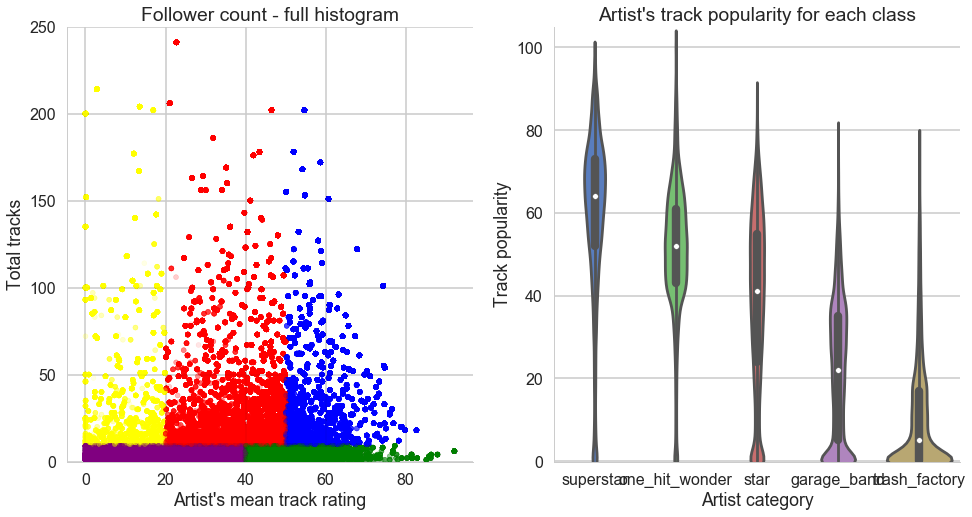
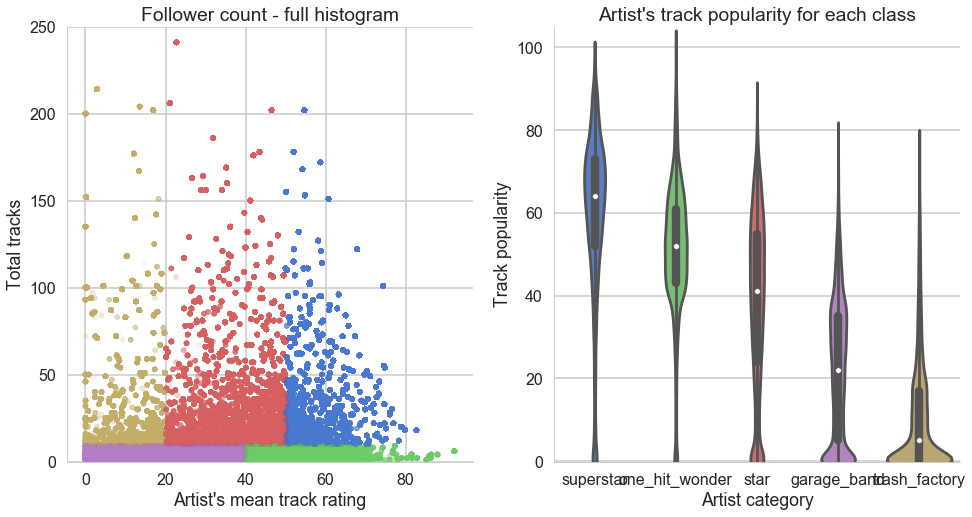
Updated chart colors and rounded table values

diff --git a/docs/index.html b/docs/index.html
@@ -558,18 +558,18 @@
                         <tbody>
                         <tr>
                             <td>Ridge Regression</td>
-                            <td>0.084026380104</td>
-                            <td>0.0411555898746</td>
+                            <td>0.0840</td>
+                            <td>0.0412</td>
                         </tr>
                         <tr>
                             <td>Elastic Net Regression</td>
-                            <td>0.0856918846622</td>
-                            <td>0.0408969940616</td>
+                            <td>0.0857</td>
+                            <td>0.0409</td>
                         </tr>
                         <tr>
                             <td>Random Forest Regression</td>
-                            <td>0.872547373809</td>
-                            <td>0.136527177719</td>
+                            <td>0.8725</td>
+                            <td>0.1365</td>
                         </tr>
                         </tbody>
                     </table>
@@ -600,51 +600,51 @@
                         <tbody>
                         <tr>
                             <td>Ridge Regression</td>
-                            <td>-0.030256576859918376, 0.11125313901459834</td>
-                            <td>0.0853779911556</td>
-                            <td>0.0413614492559</td>
+                            <td>-0.0303, 0.1113</td>
+                            <td>0.0854</td>
+                            <td>0.0414</td>
                         </tr>
                         <tr>
                             <td>Lasso Regression</td>
-                            <td>-0.030256576859918376, 0.11125313901459834</td>
-                            <td>0.0853779911556</td>
-                            <td>0.0413614492559</td>
+                            <td>-0.0303, 0.1113</td>
+                            <td>0.0854</td>
+                            <td>0.0414</td>
                         </tr>
                         <tr>
                             <td>Elastic Net Regression</td>
-                            <td>-0.0028011693799219937, 0.06249175213203975</td>
-                            <td>0.0884215423941</td>
-                            <td>0.0410473844718</td>
+                            <td>-0.0028, 0.0625</td>
+                            <td>0.0884</td>
+                            <td>0.0410</td>
                         </tr>
                         <tr>
                             <td>k-NN Regression</td>
-                            <td>0.013480236420100952, 0.014509798407915084</td>
-                            <td>0.0923044971552</td>
-                            <td>0.0447576215128</td>
+                            <td>0.0135, 0.0145</td>
+                            <td>0.0923</td>
+                            <td>0.0448</td>
                         </tr>
                         <tr>
                             <td>Random Forest Regression</td>
-                            <td>0.06498151001454726, 0.03988285917502669</td>
-                            <td>0.878798558284</td>
-                            <td>0.102835631709</td>
+                            <td>0.0650, 0.0399</td>
+                            <td>0.8788</td>
+                            <td>0.1028</td>
                         </tr>
                         <tr>
                             <td>AdaBoost Regression</td>
-                            <td>-0.06615510226947337, 0.14867997551870718</td>
-                            <td>0.471762846853</td>
-                            <td>0.0671178069851</td>
+                            <td>-0.0662, 0.1487</td>
+                            <td>0.4718</td>
+                            <td>0.0671</td>
                         </tr>
                         <tr>
                             <td>XGBoost Regression</td>
-                            <td>-0.06309052342991424, 0.25255449612691144</td>
-                            <td>0.471512394636</td>
-                            <td>0.110631159802</td>
+                            <td>-0.0631, 0.2526</td>
+                            <td>0.4715</td>
+                            <td>0.1106</td>
                         </tr>
                         <tr>
                             <td>SVM Regression</td>
-                            <td>0.050170049519681514, 0.014360689088760155</td>
-                            <td>0.161309635032</td>
-                            <td>0.0632341098191</td>
+                            <td>0.0502, 0.0144</td>
+                            <td>0.1613</td>
+                            <td>0.0632</td>
                         </tr>
                         </tbody>
                     </table>
@@ -697,51 +697,51 @@
                         <tbody>
                         <tr>
                             <td>Ridge Regression</td>
-                            <td>-0.0012099350604610388, 0.06014401823558278</td>
-                            <td>0.0506409957292</td>
-                            <td>0.034960605146</td>
+                            <td>-0.0012, 0.0601</td>
+                            <td>0.0506</td>
+                            <td>0.0350</td>
                         </tr>
                         <tr>
                             <td>Lasso Regression</td>
-                            <td>-0.031179089608199113, 0.11043536489467987</td>
-                            <td>0.0835771438137</td>
-                            <td>0.040393327611</td>
+                            <td>-0.0312, 0.1104</td>
+                            <td>0.0836</td>
+                            <td>0.0404</td>
                         </tr>
                         <tr>
                             <td>Elastic Net Regression</td>
-                            <td>-0.0028709466278603233, 0.06259040628484479</td>
-                            <td>0.0742195304118</td>
-                            <td>0.0420117696879</td>
+                            <td>-0.0029, 0.0626</td>
+                            <td>0.0742</td>
+                            <td>0.0420</td>
                         </tr>
                         <tr>
                             <td>k-NN Regression</td>
-                            <td>0.02365696902444836, 0.005290415228039509</td>
-                            <td>0.0938927608193</td>
-                            <td>0.0471011530949</td>
+                            <td>0.0237, 0.0053</td>
+                            <td>0.0939</td>
+                            <td>0.0471</td>
                         </tr>
                         <tr>
                             <td>Random Forest Regression</td>
-                            <td>-0.012824365374335844, 0.17363765832838546</td>
-                            <td>0.874413756852</td>
-                            <td>0.108460311935</td>
+                            <td>-0.0128, 0.1736</td>
+                            <td>0.8744</td>
+                            <td>0.1085</td>
                         </tr>
                         <tr>
                             <td>AdaBoost Regression</td>
-                            <td>0.06851789843488665, 0.01991264170112891</td>
-                            <td>0.815443417418</td>
-                            <td>0.104618730911</td>
+                            <td>0.0685, 0.0199</td>
+                            <td>0.8154</td>
+                            <td>0.1046</td>
                         </tr>
                         <tr>
                             <td>XGBoost Regression</td>
-                            <td>-0.06831414541031067, 0.24532113197831398</td>
-                            <td>0.460142391737</td>
-                            <td>0.123005276447</td>
+                            <td>-0.0683, 0.2453</td>
+                            <td>0.4601</td>
+                            <td>0.1230</td>
                         </tr>
                         <tr>
                             <td>SVM Regression</td>
-                            <td>0.044348184474051755, 0.03186671954730048</td>
-                            <td>0.0870515728538</td>
-                            <td>0.0503707715865</td>
+                            <td>0.04435, 0.0319</td>
+                            <td>0.0871</td>
+                            <td>0.0504</td>
                         </tr>
                         </tbody>
                     </table>
@@ -783,24 +783,24 @@
                         <tbody>
                         <tr>
                             <td>Ridge Regression</td>
-                            <td>0.0812653316532</td>
-                            <td>0.0797564462589</td>
-                            <td>0.0392014393826</td>
-                            <td>0.038960622454</td>
+                            <td>0.0813</td>
+                            <td>0.0798</td>
+                            <td>0.0392</td>
+                            <td>0.0390</td>
                         </tr>
                         <tr>
                             <td>Lasso Regression</td>
-                            <td>0.0812653316532</td>
-                            <td>0.0797564462589</td>
-                            <td>0.0392014393826</td>
-                            <td>0.038960622454</td>
+                            <td>0.0813</td>
+                            <td>0.0798</td>
+                            <td>0.0392</td>
+                            <td>0.0390</td>
                         </tr>
                         <tr>
                             <td>Elastic Net Regression</td>
-                            <td>0.0728789565471</td>
-                            <td>0.0810526332472</td>
-                            <td>0.0412664603581</td>
-                            <td>0.0389881477994</td>
+                            <td>0.0729</td>
+                            <td>0.0811</td>
+                            <td>0.0413</td>
+                            <td>0.0390</td>
                         </tr>
                         </tbody>
                     </table>
